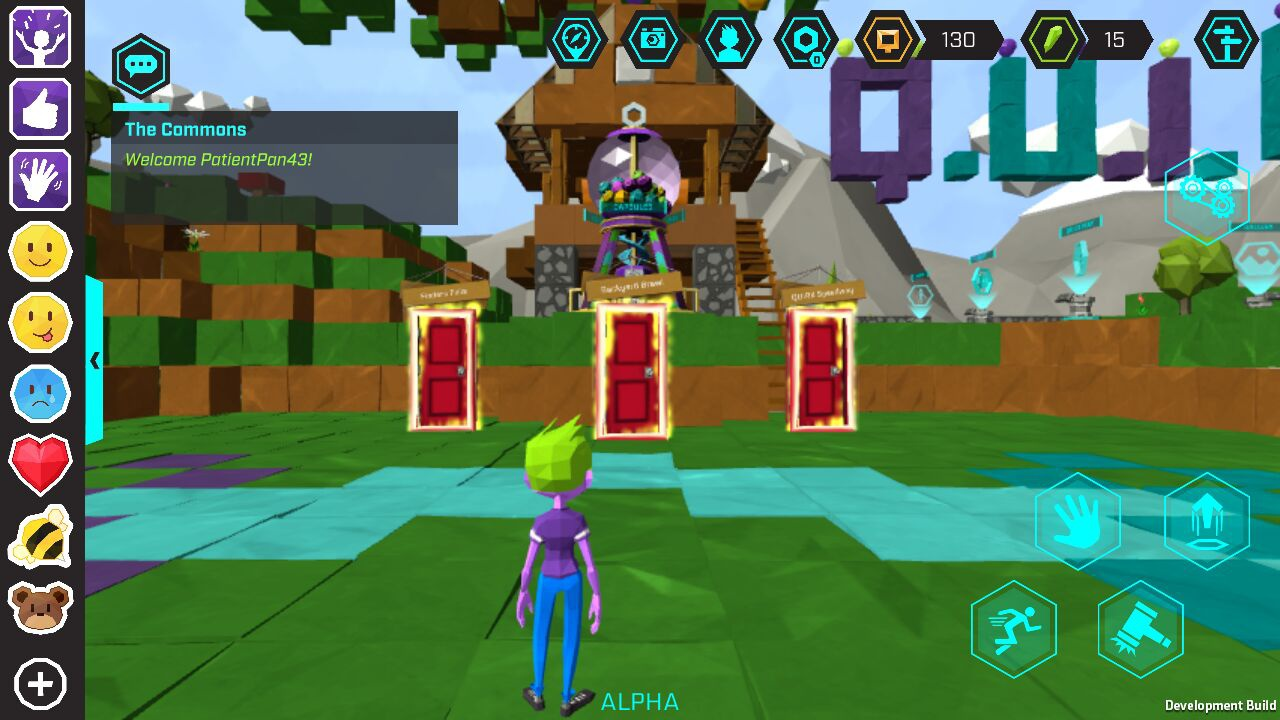
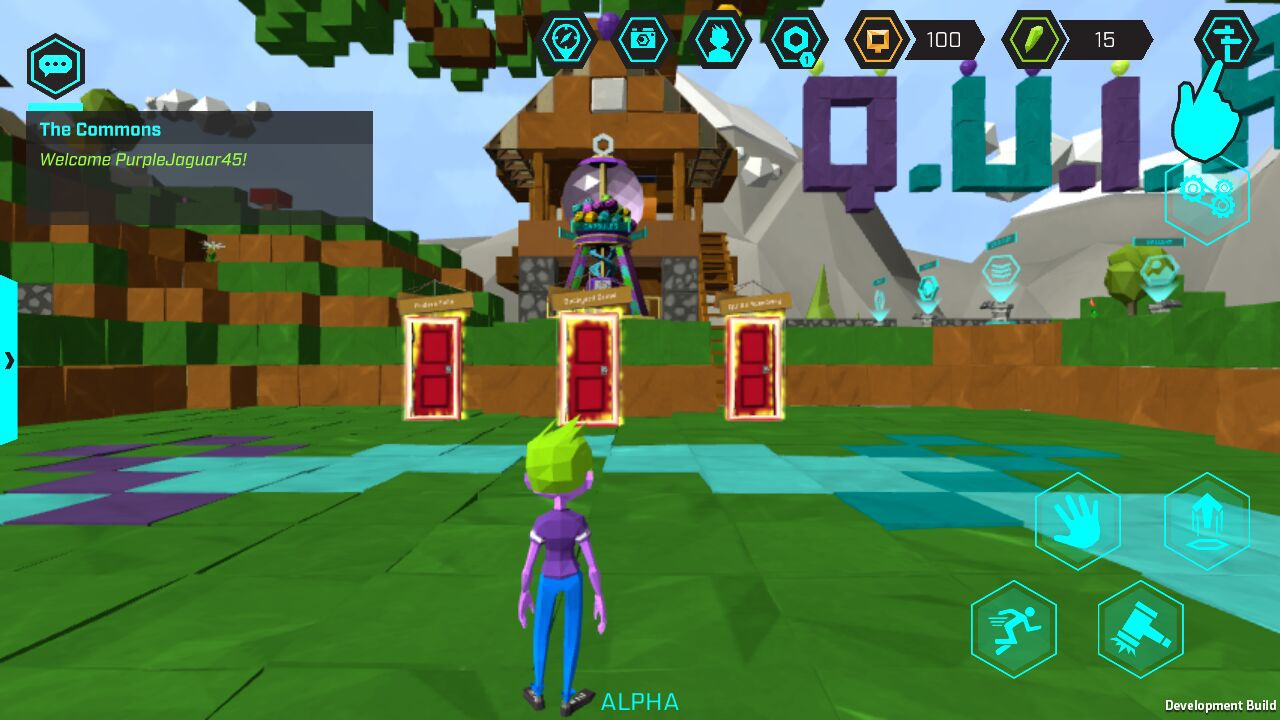
updates

diff --git a/testflow/scripts/Tokens.py b/testflow/scripts/Tokens.py
@@ -1,17 +1,24 @@
 # coding=utf-8
 __author__ = "Eric"
 
-# Test script for Friends feature in top bar.
+# Test script for Tokens feature in top bar. Tests if token pouch can be
+# accessed, uses token on machine, and tests if token has been used.
+# THIS SCRIPT USES 'MANUAL' JOYSTICK MOVEMENT: tests have moderate chances of
+# failure since character spawn location isn't constant
 
 import time
 
 from testflow.lib.case.basecase import QuirkCase
+from testflow.lib.utils.installation import *
+
 from poco.drivers.unity3d import UnityPoco
-from poco.drivers.android.uiautomation import AndroidUiautomationPoco
 
 from airtest.core.api import *
 
 
+#--------------------------------------------------------------------#
+#   TEST CASE                                                        #
+#--------------------------------------------------------------------#
 class Tokens(QuirkCase):
 
     @classmethod
@@ -20,26 +27,24 @@ class Tokens(QuirkCase):
         cls.installQuirk()
         cls.createAvatar()
 
-    # the menu button blocks the exit button in help screen in current build
-    def runTest(self):
-        self.poco = UnityPoco()
-        snapshot('../../res/img/Commons.jpg')
-        self.assertTrue(exists(
-            Template(self.R('res/img/Commons.jpg'), threshold=0.9)), "Too far or too near")
-        # self.poco("tokens").click()
-        # # snapshot('../../res/img/tokens/main.jpg')
-        # # assert_exists(Template(self.R('res/img/tokens/main.jpg')),
-        # #               "Tokens pouch did not show up")
-        # self.poco("ExitContainer").click()
+    def pouchBefore(self):
+        self.poco("tokens").click()
+        snapshot('../../res/img/tokens/main.jpg')
+        assert_exists(Template(self.R('res/img/tokens/main.jpg')),
+                      "Tokens pouch did not show up")
+        self.poco("ExitContainer").click()
+
+    def useMachine(self):
         joystick = self.poco("VirtualJoystick")
         joystick.focus([0.2, 0.2]).start_gesture().hold(
-            1).to(joystick.focus([0.8, 0.2])).hold(2.5).up()
+            1).to(joystick.focus([0.8, 0.2])).hold(2.35).up()
         if not (exists(Template(self.R('res/img/tokens/machine.jpg'), rgb=True, threshold=0.7)) or exists(Template(self.R('res/img/tokens/machine2.jpg'), rgb=True, threshold=0.7))):
-            joystick.focus([0.5, 0.5]).drag_to(joystick.focus([0.6, 0.5]), duration=0.65)
+            joystick.focus([0.5, 0.5]).drag_to(
+                joystick.focus([0.6, 0.5]), duration=0.65)
             joystick.focus([0.2, 0.2]).start_gesture().hold(
                 1).to(joystick.focus([0.8, 0.2])).hold(0.5).up()
-
         self.poco("ActionButton").click()
+
         self.assertTrue(self.poco("RectangleBackgroundSolidImage").exists(),
                         "Token insert tab did not pop up or failed to walk to slot machine")
         self.poco("TokenButton1").click()
@@ -54,15 +59,31 @@ class Tokens(QuirkCase):
         self.assertTrue(rewards.exists() and help_btn.exists()
                         and collect_btn.exists(),
                         "Loot screen UI elements are missing")
+        collect_btn.click()
+        time.sleep(1)
+        self.poco("CloseButton").click()
+        self.assertFalse(self.poco("RectangleBackgroundSolidImage").exists(),
+                         "Token insert tab failed to hide")
+
+    def pouchAfter(self):
+        self.poco("tokens").click()
+        snapshot('../../res/img/tokens/after.jpg')
+        assert_exists(Template(self.R('res/img/tokens/after.jpg')),
+                      "Token has not been used")
+        self.poco("ExitContainer").click()
+
+    # the menu button blocks the exit button in help screen in current build so
+    # it is not tested
+    def runTest(self):
+        self.poco = UnityPoco()
+        self.pouchBefore()
+        self.useMachine()
+        self.pouchAfter()
 
         # self.poco("HelpButton").click()
         # snapshot('../../res/img/tokens/help.jpg')
         # assert_exists(Template(self.R('res/img/tokens/help.jpg')),
         #               "Help screen did not show up")
-
-    @classmethod
-    def tearDownClass(cls):
-        pass
 
 
 if __name__ == '__main__':

diff --git a/testflow/lib/case/basecase.py b/testflow/lib/case/basecase.py
@@ -56,11 +56,9 @@ class QuirkCase(PocoTestCase):
         return True
 
     def createAvatar(self):
-        # self.maxDiff = None
-        # self.assertErrors = []
         self.poco = UnityPoco()
         time.sleep(20)
-        self.poco("SalonNavbarMobile(Clone)").child("SaveButton").click()
+        self.poco("SaveButton").click()
         time.sleep(1)
         self.poco("CreateAccountButton").click()
         time.sleep(20)
@@ -68,10 +66,10 @@ class QuirkCase(PocoTestCase):
         if overmap_close.exists():
             overmap_close.click()
         time.sleep(5)
-        # self.poco("ActionButton").click()
+        # cls.poco("ActionButton").click()
         # time.sleep(5)
-        # if exists(Template(self.R('res/img/overmap.png'))):
-        #     touch(Template(self.R('res/img/overmap_icons/icon_c.png')))
+        # if exists(Template(cls.R('res/img/overmap.png'))):
+        #     touch(Template(cls.R('res/img/overmap_icons/icon_c.png')))
         # wait(Template(cls.R("res/img/Commons.png")))
 
     def installQuirk(self):

diff --git a/testflow/scripts/CharacterColorChange_together.py b/testflow/scripts/CharacterColorChange_together.py
@@ -6,6 +6,7 @@ __author__ = "Eric"
 # between tests.
 
 from testflow.lib.case.basecase import QuirkCase
+from testflow.lib.case.suite import QuirkSuite
 from testflow.lib.utils.installation import install_android_app
 from poco.drivers.unity3d import UnityPoco
 from poco.exceptions import InvalidOperationException
@@ -244,10 +245,6 @@ class FinishTest(AvatarCustomizationCase):
 
 if __name__ == '__main__':
     suite = AvatarCustomizationSuite([
-        SimpleTest(),
-        ColorToggleTest(),
-        SelectionTest(),
-        RandomizeTest(),
         FinishTest()
     ])
     import pocounit
